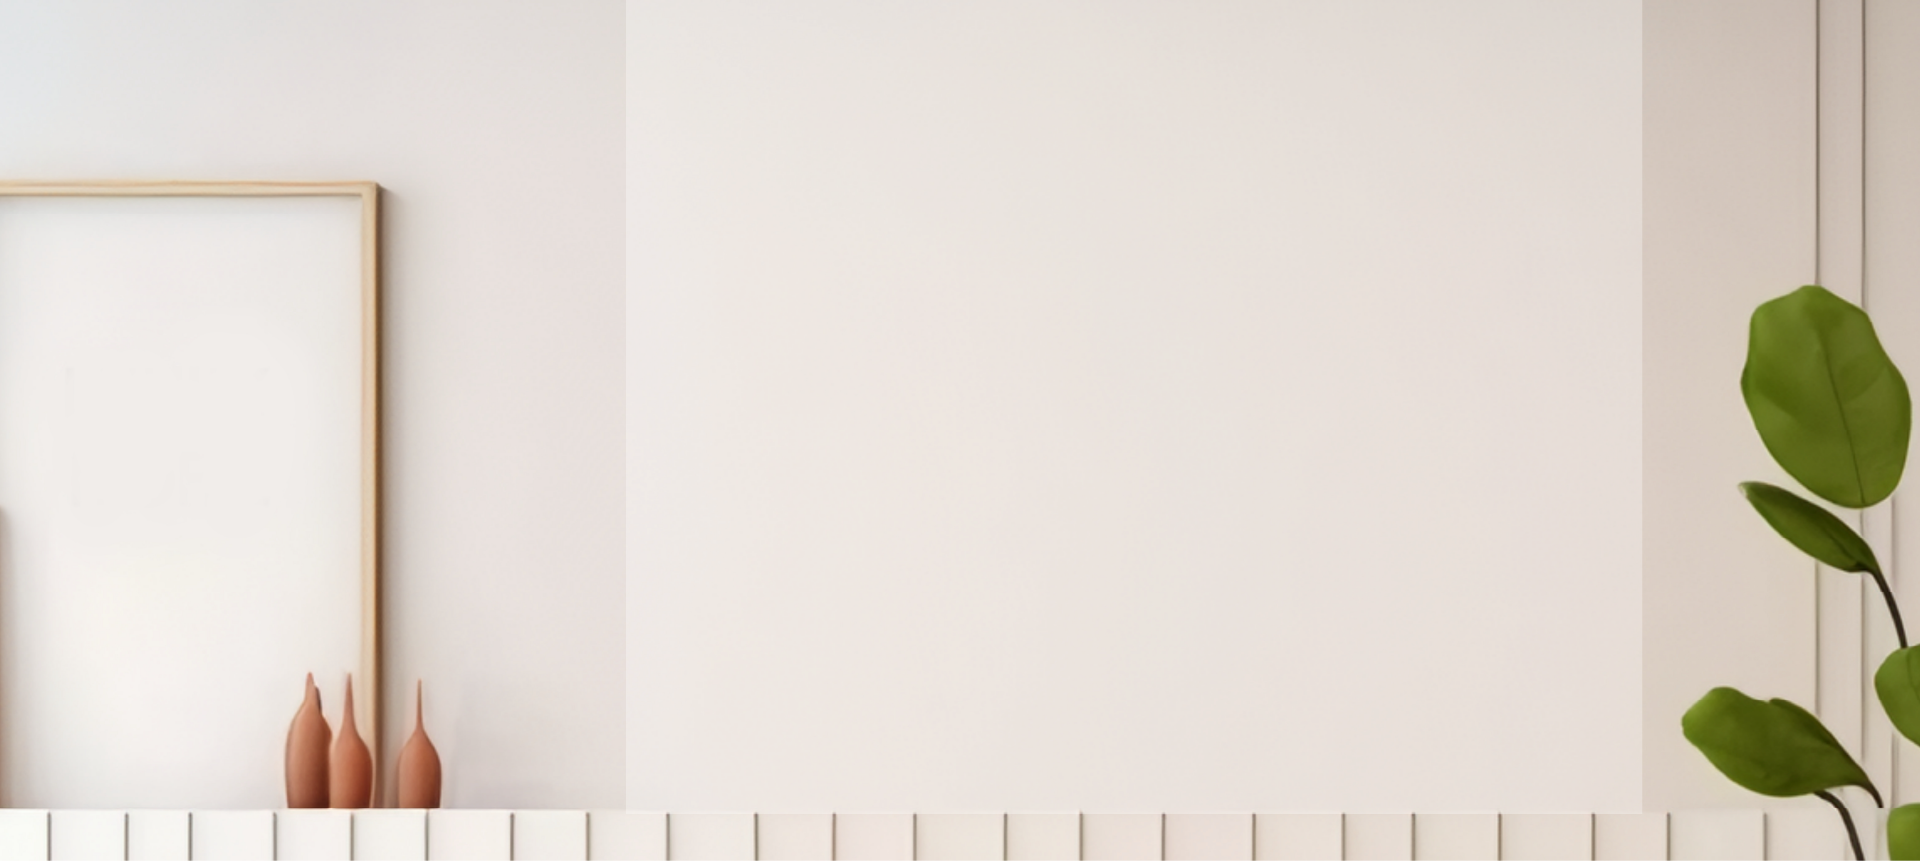
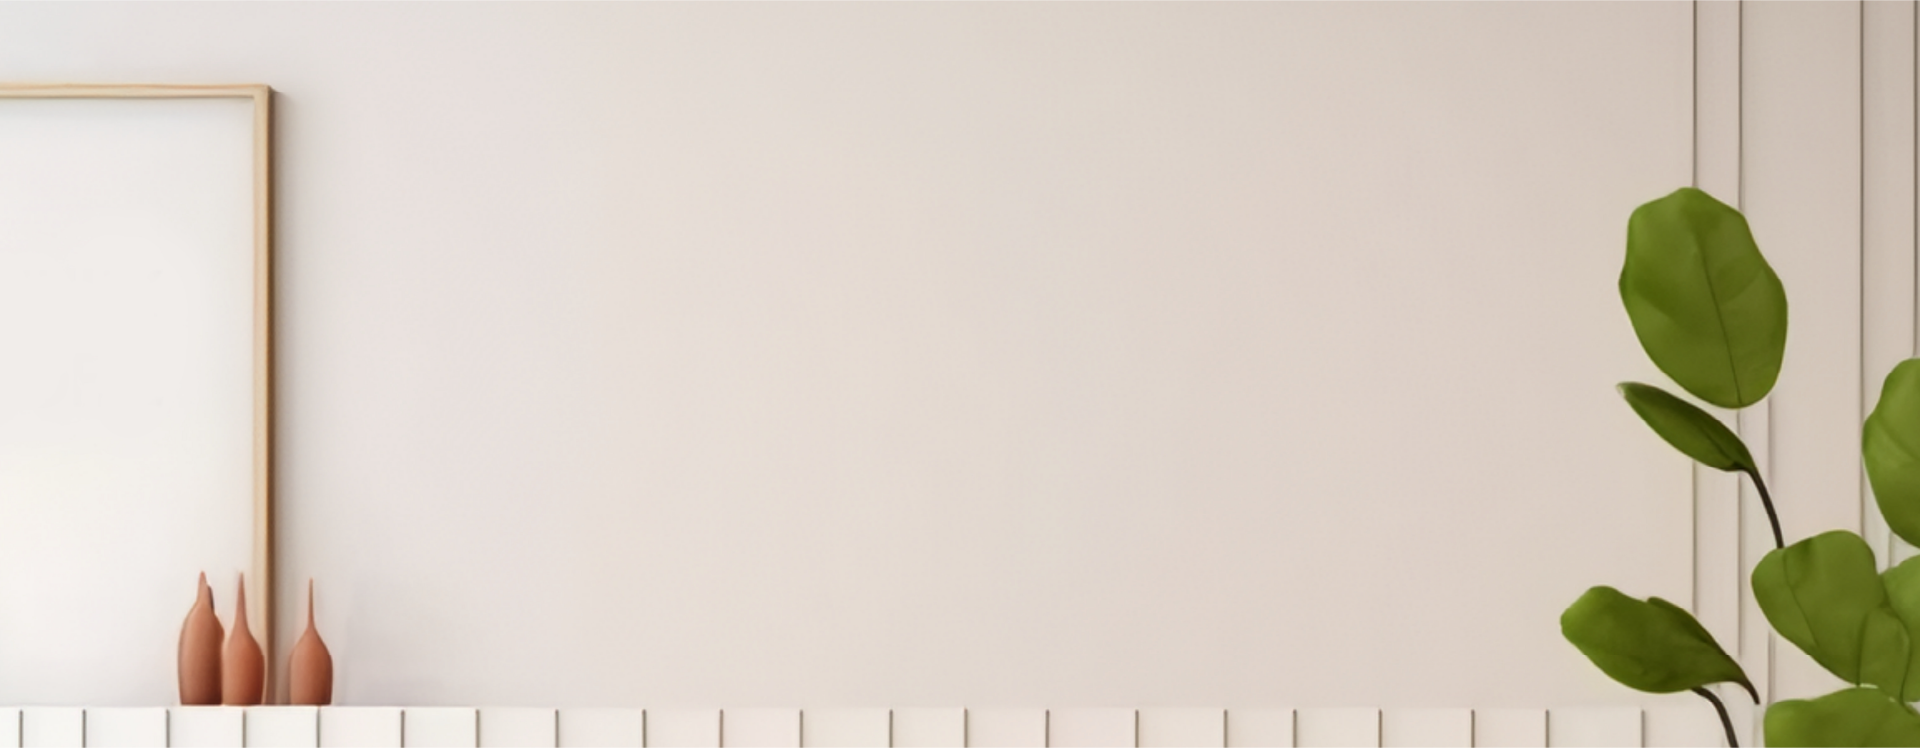
ajuste

diff --git a/9_calculo_luminotecnico/index.html b/9_calculo_luminotecnico/index.html
@@ -84,26 +84,32 @@
 
 
         <div class="bloco-1" id="bloco1">
-          <div class="container b1">
+          <div class="container">
             <div class="grupo-imprimir no-print">
               <button type="button" data-pdf="true" class="bto-imprimir" name="button">
                 <span class="fa fa-print"></span> <span>Imprimir</span>
               </button>
             </div>
-            <h2>Cálculo luminotécnico simples:</h2>
-            <h3>normas técnicas, requisitos, grandezas, ambientes e quantificação de lâmpadas e luminárias;
-              <i>softwares</i>,
-              equipamentos e aplicativos
-            </h3>
-            <h3>Introdução</h3>
-            <p>O cálculo luminotécnico é uma importante etapa no projeto de iluminação de ambientes que visa garantir a
-              adequada distribuição de luz para atender às necessidades visuais, estéticas e de conforto dos usuários.
-              Existem normas técnicas e requisitos específicos que orientam esse processo, bem como grandezas e
-              parâmetros a serem considerados. Além disso, existem também <i>softwares</i>, equipamentos e aplicativos
-              que
-              podem auxiliar nessa tarefa, executando cálculos, projetos e medições de iluminação. Você terá aqui alguns
-              desses itens, bem como dois cálculos simples usados para projeto de iluminação.</p>
           </div>
+
+            <div class="b1">
+              <div class="container">
+                <h2>Cálculo luminotécnico simples:</h2>
+                <h3>normas técnicas, requisitos, grandezas, ambientes e quantificação de lâmpadas e luminárias;
+                  <i>softwares</i>,
+                  equipamentos e aplicativos
+                </h3>
+                <h3>Introdução</h3>
+                <p>O cálculo luminotécnico é uma importante etapa no projeto de iluminação de ambientes que visa garantir a
+                  adequada distribuição de luz para atender às necessidades visuais, estéticas e de conforto dos usuários.
+                  Existem normas técnicas e requisitos específicos que orientam esse processo, bem como grandezas e
+                  parâmetros a serem considerados. Além disso, existem também <i>softwares</i>, equipamentos e aplicativos
+                  que
+                  podem auxiliar nessa tarefa, executando cálculos, projetos e medições de iluminação. Você terá aqui alguns
+                  desses itens, bem como dois cálculos simples usados para projeto de iluminação.</p>
+              </div>
+            </div>
+          
         </div>
 
         <div class="bloco-2" id="bloco2">

diff --git a/9_calculo_luminotecnico/css/custom.css b/9_calculo_luminotecnico/css/custom.css
@@ -24,6 +24,22 @@ h4 {
   font-size: 20px;
 }
 
+.grupo-imprimir button.bto-imprimir {
+  margin-top: 6px;
+}
+
+.b1 {
+  background-color: rgba(255, 255, 255, 0.3);
+  max-width: 900px;
+  padding: 20px 0;
+  padding-bottom: 80px;
+  margin: auto;
+}
+
+.b1 .container {
+  max-width: 800px;
+}
+
 .collapsed {
   content: "";
   width: 14px;
@@ -94,7 +110,7 @@ h4 {
 
 .bloco-1 {
   background: url("../imgs/BG_1.png");
-  background-size: 100% 100%;
+  background-size: cover;
   background-repeat: no-repeat;
 }
 
@@ -164,6 +180,7 @@ table.senac td {
   border-radius: 20px;
   margin: 50px 0;
 }
+
 .panel-body {
   background-color: #fff;
   padding: 15px 30px;
@@ -177,6 +194,7 @@ table.senac td {
 .panel-default {
   border-color: #bd3d33;
 }
+
 .panel-heading {
   background-color: #bd3d33 !important;
   padding: 10px 10px !important;
